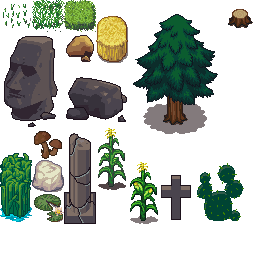
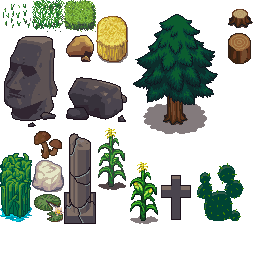
Documentation and also picking up wood

Changed region(s): [[0.875, 0.125, 1.0, 0.25]]

diff --git a/server/controller/action.js b/server/controller/action.js
@@ -1,6 +1,29 @@
 'use strict';
 
 (function() {
+   // This object is imported both server- and client-side.
+   // This means any functionality you add here is reflected on both (w00t)
+
+   /**
+    * TL;DR for adding new actions:
+    *
+    * 1) Add the relevant entry in public/js/components/ui.js (go check it out)
+    * 2) Modify ActionController.available to add your action when applicable:
+    *      actions.push(my_action);
+    * 3) Add a function to ActionController with the same name:
+    *      ActionController.my_action = function(world, index, inventory) {
+    *         // Do whatever you want! just return a promise at the end
+    *         // If you don't want to return, return ActionController.done();
+    *         // ActionController.do_nothing is an example of this
+    *
+    *         Examples:
+    *         return ActionController.setTiles(world, [index1, index2], TILE.DIRT);
+    *
+    *         return ActionController.setTile(world, index, TILE.WATER).then(() => {
+    *            return ActionController.setOccupant(world, index, OCCUPANT.STUMP);
+    *         });
+    *      }
+    */
 
    var ActionController = {};
 
@@ -101,6 +124,10 @@
          case OCCUPANT.WHEAT_COMPLEAT:
             actions.push('harvest_wheat');
             break;
+
+         case OCCUPANT.LOG:
+            actions.push('take_log');
+            break;
          }
 
          if (occupants.findIndex(function(occupant) { return occupant === OCCUPANT.TREE; }) >= 0) {
@@ -128,6 +155,15 @@
          var bl = ActionController.getTile(world, x - 1, y + 1);
          var br = ActionController.getTile(world, x + 1, y + 1);
          return [above, below, left, right, tl, tr, bl, br];
+      };
+
+      ActionController.done = function() {
+         if (typeof($) !== 'undefined') {
+            return $.Deferred().resolve([]);
+         }
+         else {
+            return require('promise').resolve([]);
+         }
       };
 
       ActionController.setTiles = function(world, indices, tile) {
@@ -227,7 +263,7 @@
          return ActionController.setOccupant(world, index, occupant + 1);
       };
 
-      ActionController.chop_tree = function(world, index, inventory, tile) {
+      ActionController.chop_tree = function(world, index, inventory) {
          var x = index % world.width;
          var y = Math.floor(index / world.width);
          var trees = [[0, 0], [-1, 0], [1, 0], [0, -1], [0, 1]].map(function(offset) {
@@ -241,7 +277,22 @@
             }
          }).filter(function(index) { return index >= 0; });
 
-         return ActionController.setOccupants(world, trees, OCCUPANT.STUMP);
+         return ActionController.setOccupants(world, trees, OCCUPANT.LOG);
+      };
+
+      ActionController.take_log = function(world, index, inventory) {
+         ActionController.assert(world.occupants[index] === OCCUPANT.LOG, 'take_log must be used on a log');
+
+         inventory.addItem('log');
+
+         return ActionController.setOccupant(world, index, OCCUPANT.STUMP);
+      }
+
+      ActionController.do_nothing = function() {
+         console.log('do nothing');
+         return ActionController.done().then(() => {
+            console.log('did nothing');
+         });
       };
 
       ActionController.placeTile = function(world, index, inventory, tile) {

diff --git a/public/js/helpers/occupant.js b/public/js/helpers/occupant.js
@@ -6,12 +6,21 @@ define([
    OCCUPANT
 ) {
    var OccupantMap = {
+   // 'NAME MATCHING server/occupants.js': {
+   //    block: how many horizontal tiles it makes inaccessible, 0=you can walk over it
+   //    offset: [x, y] referring to a tile coordinate in images/occupants.png
+   //    size:   [x, y] referring to a tile width/height in images/occupants.png
+   //    anchor: [x, y] referring to the tile that gets drawn at the occupant's location
+   //
+   //    For any 1x1 occupant, you only need the block and offset
+   //    For anything with a size, you're probably good with just the offset and size
+   // }
       'NONE':           { block: 0 },
       'WHEAT_SEED':     { block: 0, offset: [0, 0] },
       'WHEAT_SPROUT':   { block: 0, offset: [1, 0] },
       'WHEAT_GROWING':  { block: 0, offset: [2, 0] },
       'WHEAT_COMPLEAT': { block: 1, offset: [3, 0], size: [1, 2] },
-      'STUMP':          { block: 1, offset: [7, 0] },
+      'STUMP':          { block: 0, offset: [7, 0] },
       'TREE':           { block: 1, offset: [4, 0], size: [3, 5], anchor: [1, 1] },
       'STONE':          { block: 2, offset: [2, 2], size: [2, 2] },
       'ROCK':           { block: 1, offset: [2, 1] },
@@ -26,6 +35,7 @@ define([
       'CORN_STALK':     { block: 1, offset: [4, 5], size: [1, 2] },
       'CROSS':          { block: 1, offset: [5, 5], size: [1, 2] },
       'CACTUS':         { block: 2, offset: [6, 5], size: [2, 2] },
+      'LOG':            { block: 0, offset: [7, 1] },
    };
    var OccupantArray = [];
    for (var key in OCCUPANT) {

diff --git a/nature_bot/materials.js b/nature_bot/materials.js
@@ -3,6 +3,12 @@
    var Init = function(TILE) {
 
       var materialMap = {
+         // [Name matching a tile in server/tiles.js]: {
+         //    offset_basic: [x, y] referring to a tile in images/terrain.png,
+         //    offset_above: [x, y] referring to a 4x4 set in images/serrain.png
+         //    pixel:  [r, g, b, a] for the minimap
+         //    grade:  1-100 for how "bumpy" it looks, 100=no bumps (optional)
+         // }
          GRASS: {
             offset_basic: [0,  0],
             offset_above: [6,  0],
@@ -54,6 +60,8 @@
             pixel: [176, 242, 255, 255]
          }
       };
+
+      // This defines what is on top of what e.g. SNOW is above all other kinds of tiles
       var precedence = ['SNOW', 'STONE', 'ICE', 'GRASS', 'DIRT', 'SOIL', 'SOIL_WET', 'SAND', 'WATER'].reverse();
 
       var MATERIALS = [];
@@ -61,7 +69,7 @@
          materialMap[key].height = precedence.indexOf(key);
          materialMap[key].key = key;
          if (materialMap[key].height < 0) {
-            console.error('Height precedence for ' + key + ' not set');
+            console.error('Height precedence for ' + key + ' not set. Add it to nature_bot/materials.js:63!');
          }
          MATERIALS[TILE[key]] = materialMap[key];
       }

diff --git a/public/js/components/ui.js b/public/js/components/ui.js
@@ -13,6 +13,10 @@ define([
        Icons.src = './images/ui_icons.png';
 
    var actions = {
+   // 'ACTION_NAME FROM controller/Action.js': {
+   //    text: What's shown on the UI. Keep it <= 8 characters.
+   //    icon: A tile offset in images/ui_icons.png
+   // }
       'dig_grass':      { text: 'Dig',      icon: [0, 0] },
       'dig_dirt':       { text: 'Dig',      icon: [1, 0] },
       'dig_sand':       { text: 'Dig',      icon: [2, 0] },
@@ -25,7 +29,9 @@ define([
       'plant_tree':     { text: 'Plant',    icon: [1, 2] },
       'grow_wheat':     { text: 'Grow',     icon: [6, 2] },
       'harvest_wheat':  { text: 'Harvest',  icon: [2, 2] },
-      'chop_tree':      { text: 'Chop',     icon: [3, 3] }
+      'chop_tree':      { text: 'Chop',     icon: [3, 3] },
+      'take_log':       { text: 'Take',     icon: [3, 3] },
+      'do_nothing':     { text: 'Nothing',  icon: [0, 0] }
    };
 
    return Juicy.Component.create('UI', {

diff --git a/server/sqldb/model/world.js b/server/sqldb/model/world.js
@@ -49,9 +49,6 @@ module.exports = function(sequelize, DataTypes) {
             });
 
             updateReplacements.push(this._id);
-            console.log('UPDATE worlds SET ' + updateSql.join(',') + ' WHERE _id = ?', {
-                replacements: updateReplacements
-            });
             return sequelize.query('UPDATE worlds SET ' + updateSql.join(',') + ' WHERE _id = ?', {
                 replacements: updateReplacements
             }).then(() => {

diff --git a/server/tiles.js b/server/tiles.js
@@ -1,11 +1,19 @@
-module.exports = {
-   GRASS: 0,
-   WATER: 1,
-   SAND: 2,
-   DIRT: 3,
-   SOIL: 4,
-   STONE: 5,
-   SOIL_WET: 6,
-   SNOW: 7,
-   ICE: 8
-};
+const TILES = [
+   'GRASS',
+   'WATER',
+   'SAND',
+   'DIRT',
+   'SOIL',
+   'STONE',
+   'SOIL_WET',
+   'SNOW',
+   'ICE'
+   // Just add more here,
+   // then reference nature_bot/materials.js
+];
+
+module.exports = {};
+
+TILES.forEach((tile, index) => {
+   module.exports[tile] = index;
+});

diff --git a/server/controller/inventory.js b/server/controller/inventory.js
@@ -1,6 +1,9 @@
 'use strict';
 
 (function() {
+   // This object is imported both server- and client-side.
+   // This means any functionality you add here is reflected on both (w00t)
+
    var Inventory = function() {
       this.items = {};
    };

diff --git a/server/occupants.js b/server/occupants.js
@@ -17,7 +17,10 @@ const OCCUPANTS = [
    'PILLAR',
    'LILLYPAD',
    'CORN_STALK',
-   'CROSS'
+   'CROSS',
+   'LOG',
+   // Just add more here,
+   // Then reference public/js/helpers/occupant.js
 ];
 
 module.exports = {};
